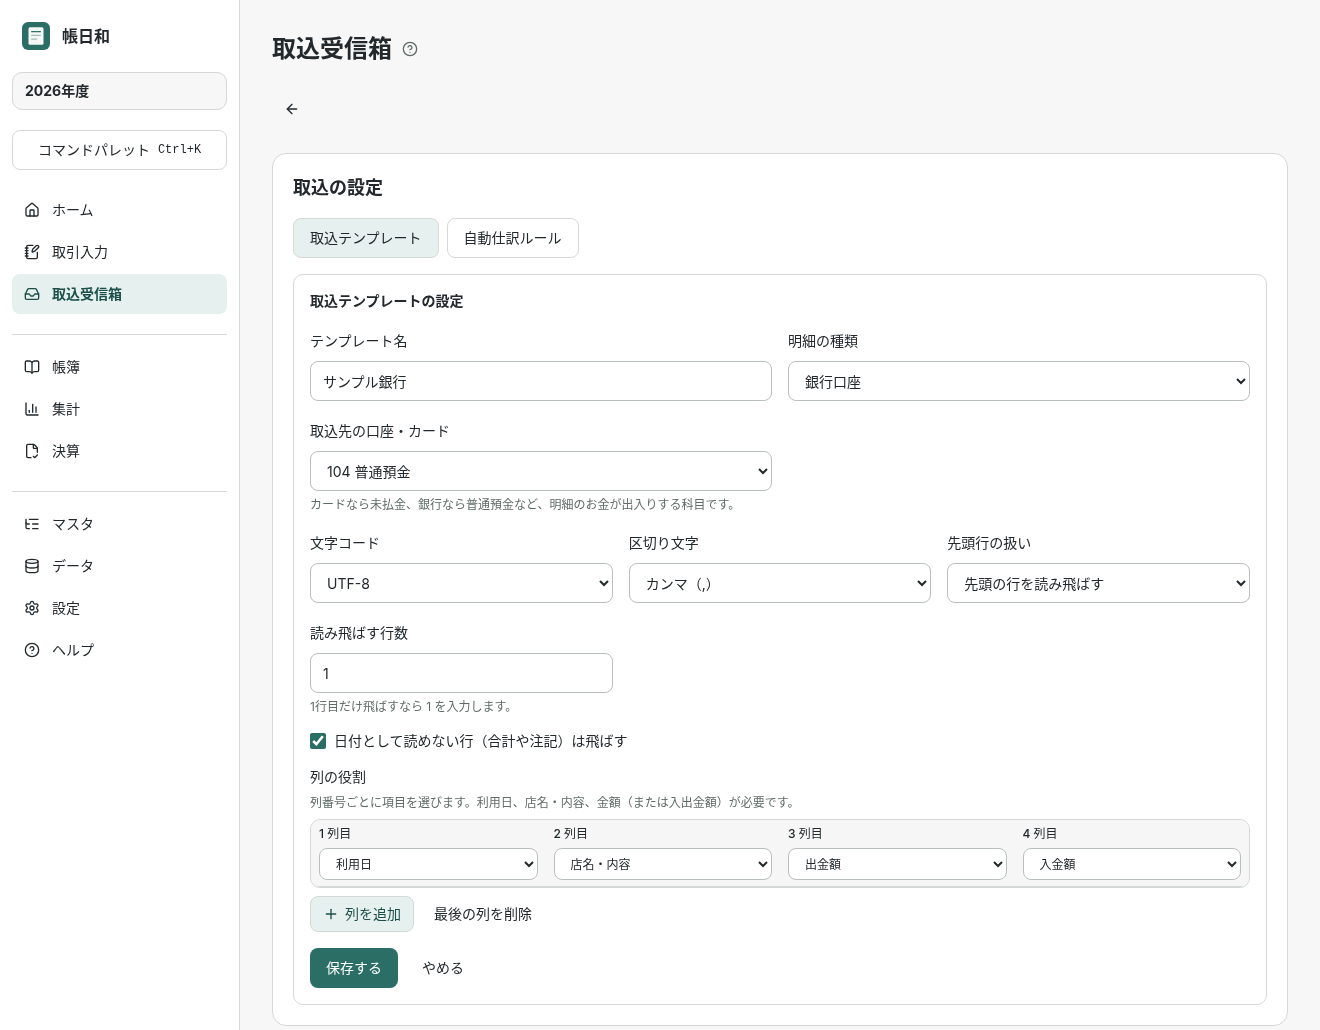
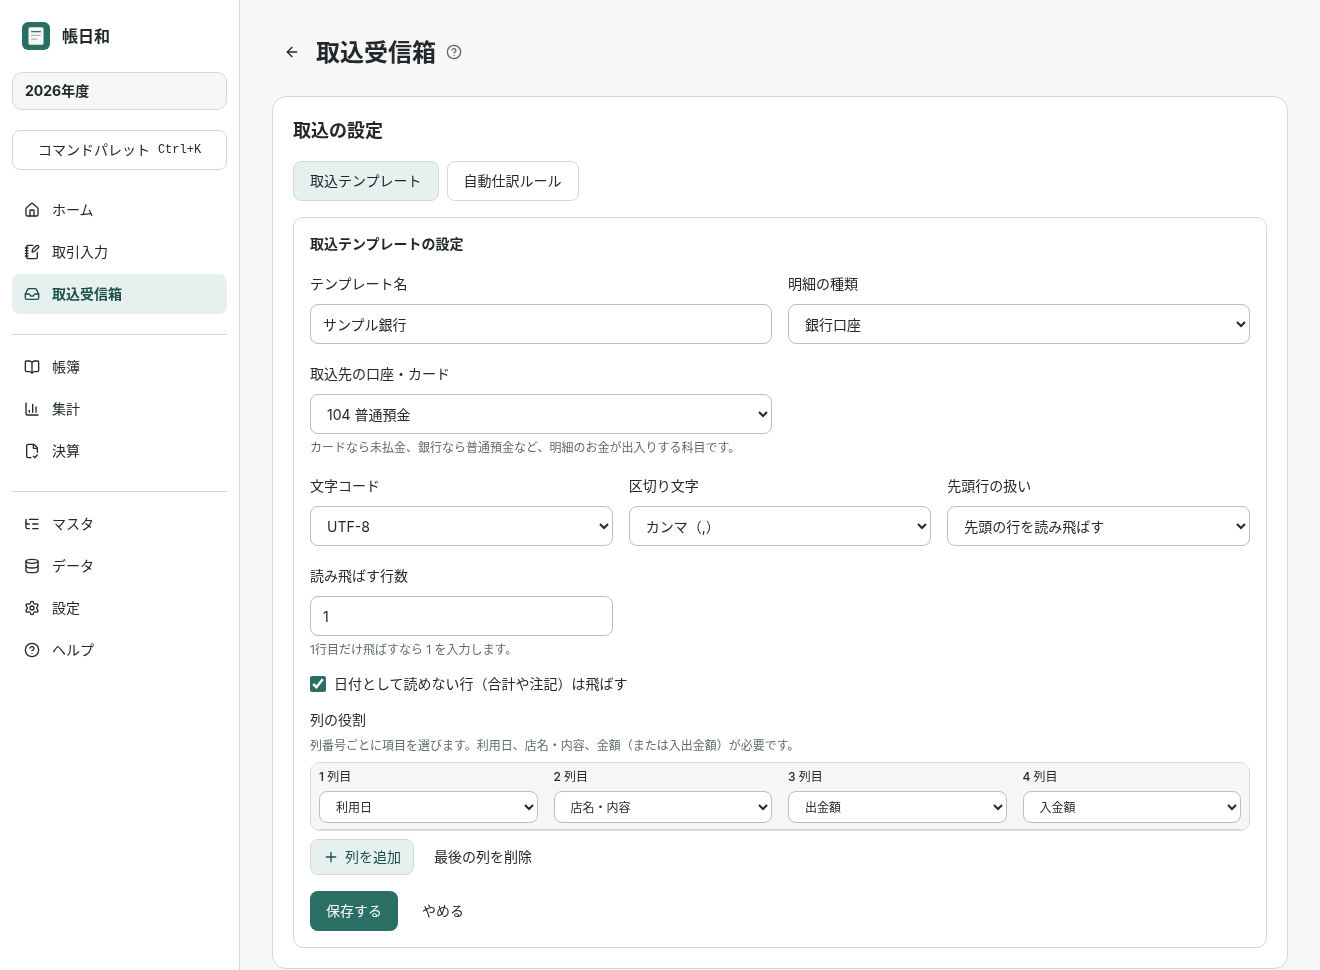
取込受信箱の戻るアイコンをタイトルの隣に移す

diff --git a/src/pages/inbox-page.tsx b/src/pages/inbox-page.tsx
@@ -30,18 +30,22 @@ export function InboxPage() {
 	const activeView = views.find((item) => item === view)
 
 	return (
-		<Page screen="inbox">
-			{activeView && (
-				<Link
-					id="tutorial-review"
-					to="/inbox"
-					className={buttonVariants({ variant: "ghost", size: "icon" })}
-					aria-label={t("backToReview")}
-					title={t("backToReview")}
-				>
-					<ArrowLeft aria-hidden="true" />
-				</Link>
-			)}
+		<Page
+			screen="inbox"
+			leadingAction={
+				activeView && (
+					<Link
+						id="tutorial-review"
+						to="/inbox"
+						className={buttonVariants({ variant: "ghost", size: "icon" })}
+						aria-label={t("backToReview")}
+						title={t("backToReview")}
+					>
+						<ArrowLeft aria-hidden="true" />
+					</Link>
+				)
+			}
+		>
 			{!activeView && (
 				<div className="flex flex-wrap items-center gap-2">
 					<Button asChild>

diff --git a/src/components/layout/page.tsx b/src/components/layout/page.tsx
@@ -12,10 +12,12 @@ import { useTranslations } from "@/i18n/use-translations"
  */
 export function Page({
 	screen,
+	leadingAction,
 	actions,
 	children,
 }: {
 	screen: ScreenId
+	leadingAction?: ReactNode
 	actions?: ReactNode
 	children?: ReactNode
 }) {
@@ -41,6 +43,7 @@ export function Page({
 		<div className="mx-auto flex w-full max-w-6xl flex-col gap-6 px-8 py-8">
 			<header className="flex flex-wrap items-end justify-between gap-4">
 				<div className="flex min-w-0 items-center gap-1">
+					{leadingAction}
 					<h1
 						id={`screen-${screen}-title`}
 						tabIndex={-1}
